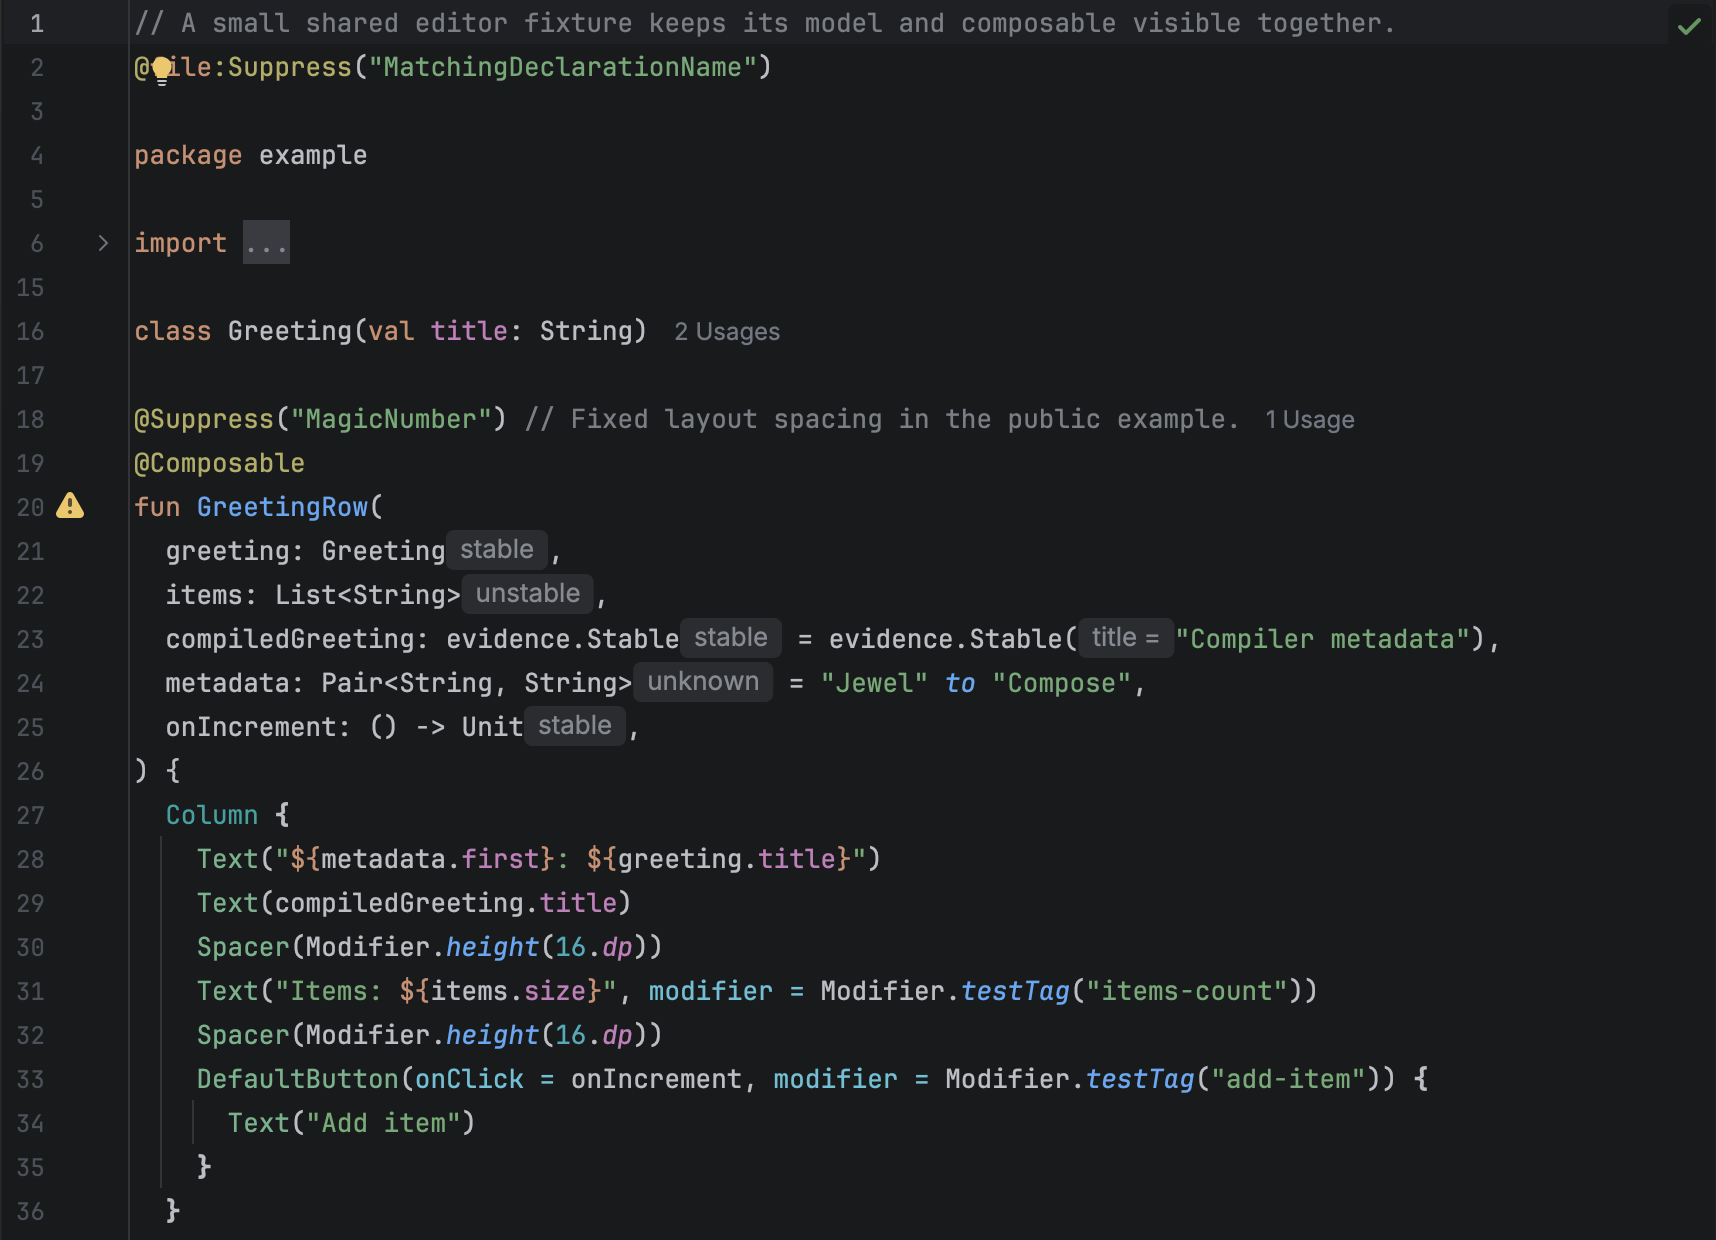
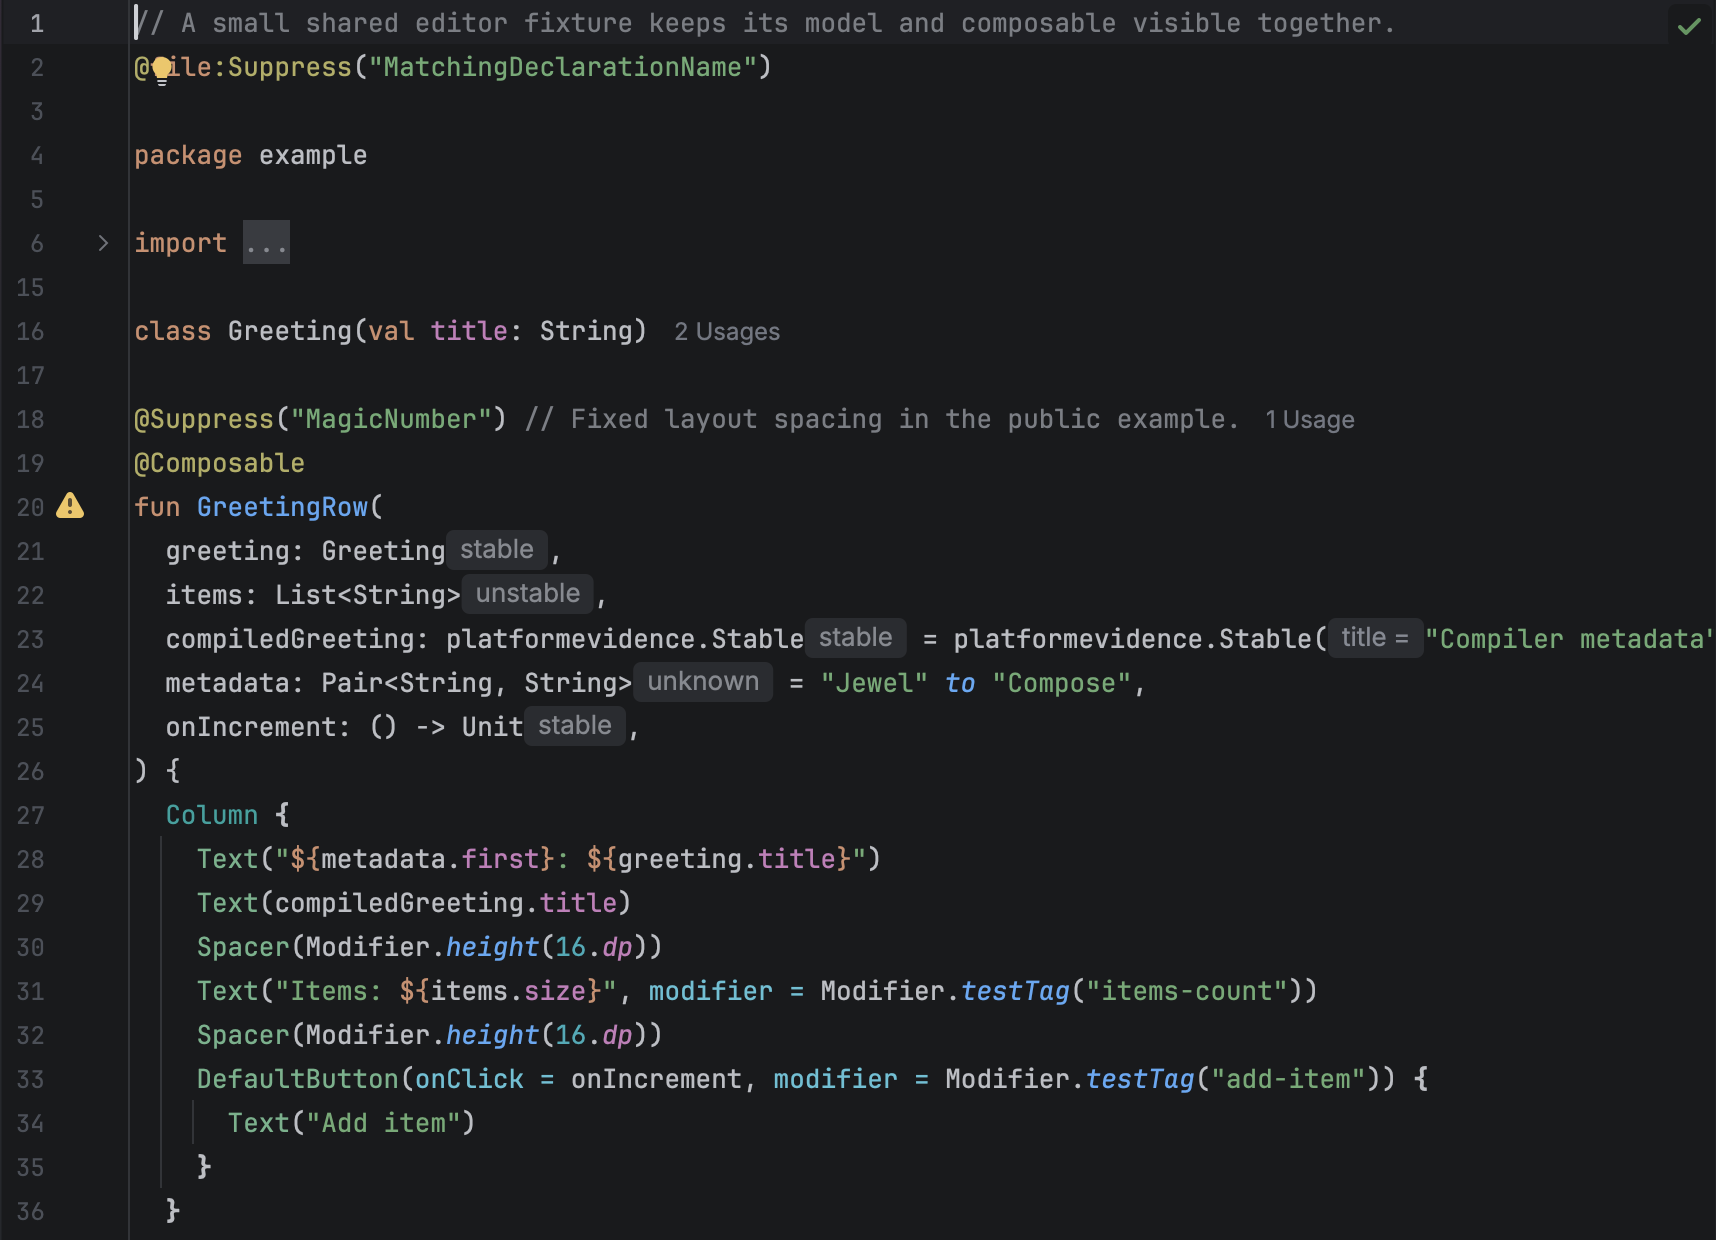
Support Java 25 and Kotlin 2.3 compiler stability metadata
Validate real Kotlin and Compose 2.3.20 and 2.4.20-RC3 output for JVM 25. Retain the JVM 21 fixture and reject unsupported versions and shapes.

Exercise both binary dependencies in the editor targets and refresh the guide captures for 0.3.3. All 57 plugin tests, both Spectre scenarios, static checks, package checks, and IU262 verification pass. GLM and K3 reviews are clean.

Changed region(s): [[0.2471, 0.4903, 1.0, 0.521]]

diff --git a/src/test/kotlin/dev/sebastiano/jewel/tooling/CompilerStabilityMetadataTest.kt b/src/test/kotlin/dev/sebastiano/jewel/tooling/CompilerStabilityMetadataTest.kt
@@ -2,16 +2,28 @@ package dev.sebastiano.jewel.tooling
 
 import java.util.zip.ZipFile
 import junit.framework.TestCase
+import org.jetbrains.org.objectweb.asm.AnnotationVisitor
+import org.jetbrains.org.objectweb.asm.ClassReader
+import org.jetbrains.org.objectweb.asm.ClassVisitor
 import org.jetbrains.org.objectweb.asm.ClassWriter
 import org.jetbrains.org.objectweb.asm.MethodVisitor
 import org.jetbrains.org.objectweb.asm.Opcodes
 
 class CompilerStabilityMetadataTest : TestCase() {
-  fun testActualCompilerOutput() {
+  fun testActualCompilerOutput() = checkCompilerOutput("evidence", 65, intArrayOf(2, 4, 0))
+
+  fun testStandaloneCompilerOutput() =
+    checkCompilerOutput("standaloneevidence", 69, intArrayOf(2, 3, 0))
+
+  fun testPlatformCompilerOutput() =
+    checkCompilerOutput("platformevidence", 69, intArrayOf(2, 4, 0))
+
+  private fun checkCompilerOutput(packageName: String, classVersion: Int, metadata: IntArray) {
     ZipFile(System.getProperty("jewel.tooling.compilerFixtures")).use { jar ->
       fun result(name: String, count: Int = 0): CompilerStabilityMetadata.Result {
-        val internal = "evidence/$name"
+        val internal = "$packageName/$name"
         val bytes = jar.getInputStream(jar.getEntry("$internal.class")).use { it.readBytes() }
+        assertCompilerVersions(bytes, classVersion, metadata)
         return CompilerStabilityMetadata.decode(bytes, internal, count)
       }
       assertEquals(CompilerStabilityMetadata.Result.Proven(false, 0), result("Stable"))
@@ -62,9 +74,33 @@ class CompilerStabilityMetadataTest : TestCase() {
   }
 
   fun testVersionIdentityAndClassShape() {
-    assertUnsupported(shape(version = 66))
+    for (version in 52..69) {
+      assertEquals(
+        CompilerStabilityMetadata.Result.Proven(false, 0),
+        decode(shape(version = version)),
+      )
+    }
+    assertUnsupported(shape(version = 51))
+    assertUnsupported(shape(version = 70))
+    assertUnsupported(shape(version = (0xffff shl 16) or 69))
+    assertUnsupported(shape(version = (1 shl 16) or 69))
     assertEquals(CompilerStabilityMetadata.Result.Proven(false, 0), decode(shape(version = 65)))
-    assertUnsupported(shape(metadataVersion = intArrayOf(2, 3, 0)))
+    assertEquals(
+      CompilerStabilityMetadata.Result.Proven(false, 0),
+      decode(shape(metadataVersion = intArrayOf(2, 3, 0))),
+    )
+    for (metadata in
+      listOf(
+        intArrayOf(1, 9, 0),
+        intArrayOf(2, 2, 0),
+        intArrayOf(2, 5, 0),
+        intArrayOf(2, 3, 1),
+        intArrayOf(2, 4, 1),
+        intArrayOf(2, 4),
+        intArrayOf(2, 4, 0, 0),
+      )) {
+      assertUnsupported(shape(metadataVersion = metadata))
+    }
     assertEquals(
       CompilerStabilityMetadata.Result.Unsupported,
       CompilerStabilityMetadata.decode(shape(), "other/Class", 0),
@@ -139,6 +175,43 @@ class CompilerStabilityMetadataTest : TestCase() {
         throw AssertionError("Malformed class byte at offset $index escaped the decoder", failure)
       }
     }
+  }
+
+  private fun assertCompilerVersions(
+    bytes: ByteArray,
+    expectedClass: Int,
+    expectedMetadata: IntArray,
+  ) {
+    var metadataSeen = false
+    ClassReader(bytes)
+      .accept(
+        object : ClassVisitor(Opcodes.ASM9) {
+          override fun visit(
+            version: Int,
+            access: Int,
+            name: String,
+            signature: String?,
+            superName: String?,
+            interfaces: Array<out String>?,
+          ) {
+            assertEquals(expectedClass, version)
+          }
+
+          override fun visitAnnotation(descriptor: String, visible: Boolean): AnnotationVisitor? {
+            if (descriptor != "Lkotlin/Metadata;") return null
+            return object : AnnotationVisitor(Opcodes.ASM9) {
+              override fun visit(name: String?, value: Any?) {
+                if (name == "mv") {
+                  assertTrue(expectedMetadata.contentEquals(value as IntArray))
+                  metadataSeen = true
+                }
+              }
+            }
+          }
+        },
+        ClassReader.SKIP_CODE,
+      )
+    assertTrue("The compiler must emit the expected Kotlin metadata", metadataSeen)
   }
 
   private fun decode(bytes: ByteArray, count: Int = 0) =

diff --git a/src/test/kotlin/dev/sebastiano/jewel/tooling/StabilityAnalysisTest.kt b/src/test/kotlin/dev/sebastiano/jewel/tooling/StabilityAnalysisTest.kt
@@ -42,7 +42,13 @@ class StabilityAnalysisTest : LightJavaCodeInsightFixtureTestCase() {
     val stdlib = File(System.getProperty("jewel.tooling.stdlib"))
     PsiTestUtil.addLibrary(module, "kotlin-stdlib", stdlib.parent, stdlib.name)
     val binaryFixtures = File(System.getProperty("jewel.tooling.compilerFixtures"))
-    PsiTestUtil.addLibrary(module, "compiler-fixtures", binaryFixtures.parent, binaryFixtures.name)
+    val fixtureCopy =
+      com.intellij.openapi.util.io.FileUtil.createTempFile("compiler-fixtures", ".jar", true)
+    com.intellij.openapi.util.Disposer.register(testRootDisposable) {
+      com.intellij.openapi.util.io.FileUtil.delete(fixtureCopy)
+    }
+    fixtureCopy.writeBytes(binaryFixtures.readBytes())
+    PsiTestUtil.addLibrary(module, "compiler-fixtures", fixtureCopy.parent, fixtureCopy.name)
     myFixture.addFileToProject(
       "androidx/compose/runtime/Annotations.kt",
       """
@@ -801,6 +807,34 @@ class StabilityAnalysisTest : LightJavaCodeInsightFixtureTestCase() {
           declaration.containingKtFile.isCompiled,
         )
       }
+    }
+  }
+
+  fun testJava25CompilerMetadataInAnalysis() {
+    for (packageName in listOf("standaloneevidence", "platformevidence")) {
+      val results =
+        hints(
+            """
+        import androidx.compose.runtime.Composable
+        import $packageName.*
+        @Composable fun Demo(a: Stable, b: Mutable, c: Used<String>, d: Used<List<String>>, e: WithInitializer) {}
+      """
+          )
+          .map { it.assessment }
+      assertEquals(
+        "$packageName: $results",
+        listOf(
+          Stability.STABLE,
+          Stability.UNSTABLE,
+          Stability.STABLE,
+          Stability.UNSTABLE,
+          Stability.UNKNOWN,
+        ),
+        results.map { it.stability },
+      )
+      assertEquals(setOf(Evidence.COMPILER_METADATA), results[0].evidence)
+      assertEquals(setOf(Evidence.COMPILER_METADATA), results[1].evidence)
+      assertEquals(setOf(Evidence.COMPILER_METADATA, Evidence.BUILTIN), results[2].evidence)
     }
   }
 

diff --git a/src/main/kotlin/dev/sebastiano/jewel/tooling/CompilerStabilityMetadata.kt b/src/main/kotlin/dev/sebastiano/jewel/tooling/CompilerStabilityMetadata.kt
@@ -13,13 +13,13 @@ import org.jetbrains.org.objectweb.asm.tree.IntInsnNode
 import org.jetbrains.org.objectweb.asm.tree.LdcInsnNode
 import org.jetbrains.org.objectweb.asm.tree.MethodNode
 
-/** Decodes a deliberately small, verified subset of Kotlin/Compose 2.4.0 JVM output. */
+/** Decodes supported Kotlin 2.3 and 2.4 stability metadata in Java 8 through 25 class files. */
 internal object CompilerStabilityMetadata {
   const val MAX_BYTES = 1024 * 1024
   private const val MAX_PARAMETERS = 30
-  private const val KOTLIN_METADATA_MINOR = 4
+  private val SUPPORTED_METADATA_VERSIONS = listOf(intArrayOf(2, 3, 0), intArrayOf(2, 4, 0))
   private const val MIN_CLASS_VERSION = 52
-  private const val MAX_CLASS_VERSION = 65
+  private const val MAX_CLASS_VERSION = 69
   private const val MAX_SIGNATURE_LENGTH = 4096
   private const val MAX_SIGNATURE_NESTING = 64
   private const val UNSTABLE_VALUE = 8
@@ -196,7 +196,7 @@ internal object CompilerStabilityMetadata {
       requireShape(
         metadataCount == 1 &&
           metadataKind == 1 &&
-          metadataVersion?.contentEquals(intArrayOf(2, KOTLIN_METADATA_MINOR, 0)) == true
+          SUPPORTED_METADATA_VERSIONS.any { metadataVersion?.contentEquals(it) == true }
       )
       requireShape(inferredCount == 1 && fieldCount == 1)
       val m = mask ?: throw UnsupportedShape()

diff --git a/fixtures/standalone/src/main/kotlin/example/Example.kt b/fixtures/standalone/src/main/kotlin/example/Example.kt
@@ -20,7 +20,7 @@ class Greeting(val title: String)
 fun GreetingRow(
   greeting: Greeting,
   items: List<String>,
-  compiledGreeting: evidence.Stable = evidence.Stable("Compiler metadata"),
+  compiledGreeting: standaloneevidence.Stable = standaloneevidence.Stable("Compiler metadata"),
   metadata: Pair<String, String> = "Jewel" to "Compose",
   onIncrement: () -> Unit,
 ) {

diff --git a/fixtures/ijpl/src/main/kotlin/example/Example.kt b/fixtures/ijpl/src/main/kotlin/example/Example.kt
@@ -20,7 +20,7 @@ class Greeting(val title: String)
 fun GreetingRow(
   greeting: Greeting,
   items: List<String>,
-  compiledGreeting: evidence.Stable = evidence.Stable("Compiler metadata"),
+  compiledGreeting: platformevidence.Stable = platformevidence.Stable("Compiler metadata"),
   metadata: Pair<String, String> = "Jewel" to "Compose",
   onIncrement: () -> Unit,
 ) {

diff --git a/docs/user-guide.md b/docs/user-guide.md
@@ -4,7 +4,7 @@ Jewel Tooling shows a static stability estimate beside each parameter of a Kotli
 
 ## Install the plugin
 
-Build with JDK 21 using `./gradlew :buildPlugin`. In IntelliJ IDEA, open **Settings → Plugins**, choose the gear menu, then **Install Plugin from Disk**. Select `build/distributions/jewel-tooling-0.3.2.zip` and restart when prompted.
+Build with JDK 21 using `./gradlew :buildPlugin`. In IntelliJ IDEA, open **Settings → Plugins**, choose the gear menu, then **Install Plugin from Disk**. Select `build/distributions/jewel-tooling-0.3.3.zip` and restart when prompted.
 
 The build targets IntelliJ IDEA 2026.2.0.1 with its bundled Kotlin plugin. This IDE uses K2. There is no upper IDE build limit, so newer IDEs can install the plugin. Only build 262.8665.337 has been validated; newer IDE and Android Studio builds may need API compatibility fixes.
 
@@ -63,7 +63,21 @@ Counts include value parameters and an extension receiver, when present. Context
 
 For a resolved binary dependency, the plugin can read the class’s existing Compose stability metadata. It reads the class file without loading or executing it. You do not need to add a plugin or dependency to the project being inspected.
 
-Support is deliberately narrow: the current reader is tested with Kotlin and Compose compiler **2.4.0**, Kotlin metadata `[2, 4, 0]`, and JVM class files up to Java 21. Older compiler metadata, newer class-file versions, computed stability initializers, and other unsupported shapes stay **unknown**. This does not provide general coverage of published Jewel or Compose libraries.
+The reader accepts Kotlin metadata `[2, 3, 0]` and `[2, 4, 0]` in Java 8–25 class files. It rejects preview class files.
+
+The tests compile real dependencies with these configurations:
+
+| Kotlin and Compose compiler | JVM target | Purpose |
+| --- | --- | --- |
+| 2.3.20 | 25 | Jewel Standalone compiler configuration |
+| 2.4.20-RC3 | 25 | IntelliJ Platform compiler configuration |
+| 2.4.0 | 21 | Previous supported configuration |
+
+These versions describe the compiled dependencies, not the IDE runtime. Running on JBR 25 does not require every dependency to target Java 25.
+The plugin keeps its Java 21 bytecode target. Source analysis does not depend on the binary metadata reader.
+
+A metadata version does not identify the compiler patch version. Computed stability initializers and other unsupported shapes stay **unknown**.
+Other metadata versions and class files newer than Java 25 also stay **unknown**. This does not provide general coverage of published Jewel or Compose libraries.
 
 For generic classes, the metadata identifies which type arguments matter. For example, a compiled `Box<T>(val value: T)` combines the compiler’s class result with the analysis of `T`. A star projection stays unknown when that argument is required. An unused type argument does not affect the result. The details view labels compiler and source evidence separately when both contribute.
 

diff --git a/README.md b/README.md
@@ -19,7 +19,7 @@ To use an existing compatible IDE distribution instead of downloading one:
 ./gradlew -PlocalIdePath=/path/to/IntelliJIDEA.app/Contents :buildPlugin
 ```
 
-Install `build/distributions/jewel-tooling-0.3.2.zip` through **Settings > Plugins > gear > Install Plugin from Disk**.
+Install `build/distributions/jewel-tooling-0.3.3.zip` through **Settings > Plugins > gear > Install Plugin from Disk**.
 Open a project, allow indexing to finish, then open a Kotlin file with `@Composable` functions.
 Hints appear after parameter types; hover for a short explanation. Click a function’s gutter indicator
 for a summary and a scrollable explanation of every input, or use **Inspect Compose Stability** in Find Action.
@@ -50,7 +50,8 @@ Read the [user guide](docs/user-guide.md) for explanations, limits, screenshots,
 
 These are **conservative static estimates**, not compiler reports. Stability alone does not determine skipping.
 Strong skipping can skip unstable parameters when the relevant object identities are unchanged.
-The compiler metadata reader supports a narrow, tested subset of Kotlin/Compose 2.4.0 JVM output, up to Java 21 class files.
+The compiler metadata reader supports a tested subset of Kotlin metadata `[2, 3, 0]` and `[2, 4, 0]` in Java 8–25 class files.
+The compiler tests cover Kotlin/Compose 2.3.20 and 2.4.20-RC3 targeting Java 25, plus 2.4.0 targeting Java 21.
 Other versions and computed initializers stay unknown. The details view shows the evidence behind each result.
 The plugin does not read stability configuration files, infer inherited/custom stability contracts, or modify source. Do not add `@Stable` just to turn a hint green.
 
